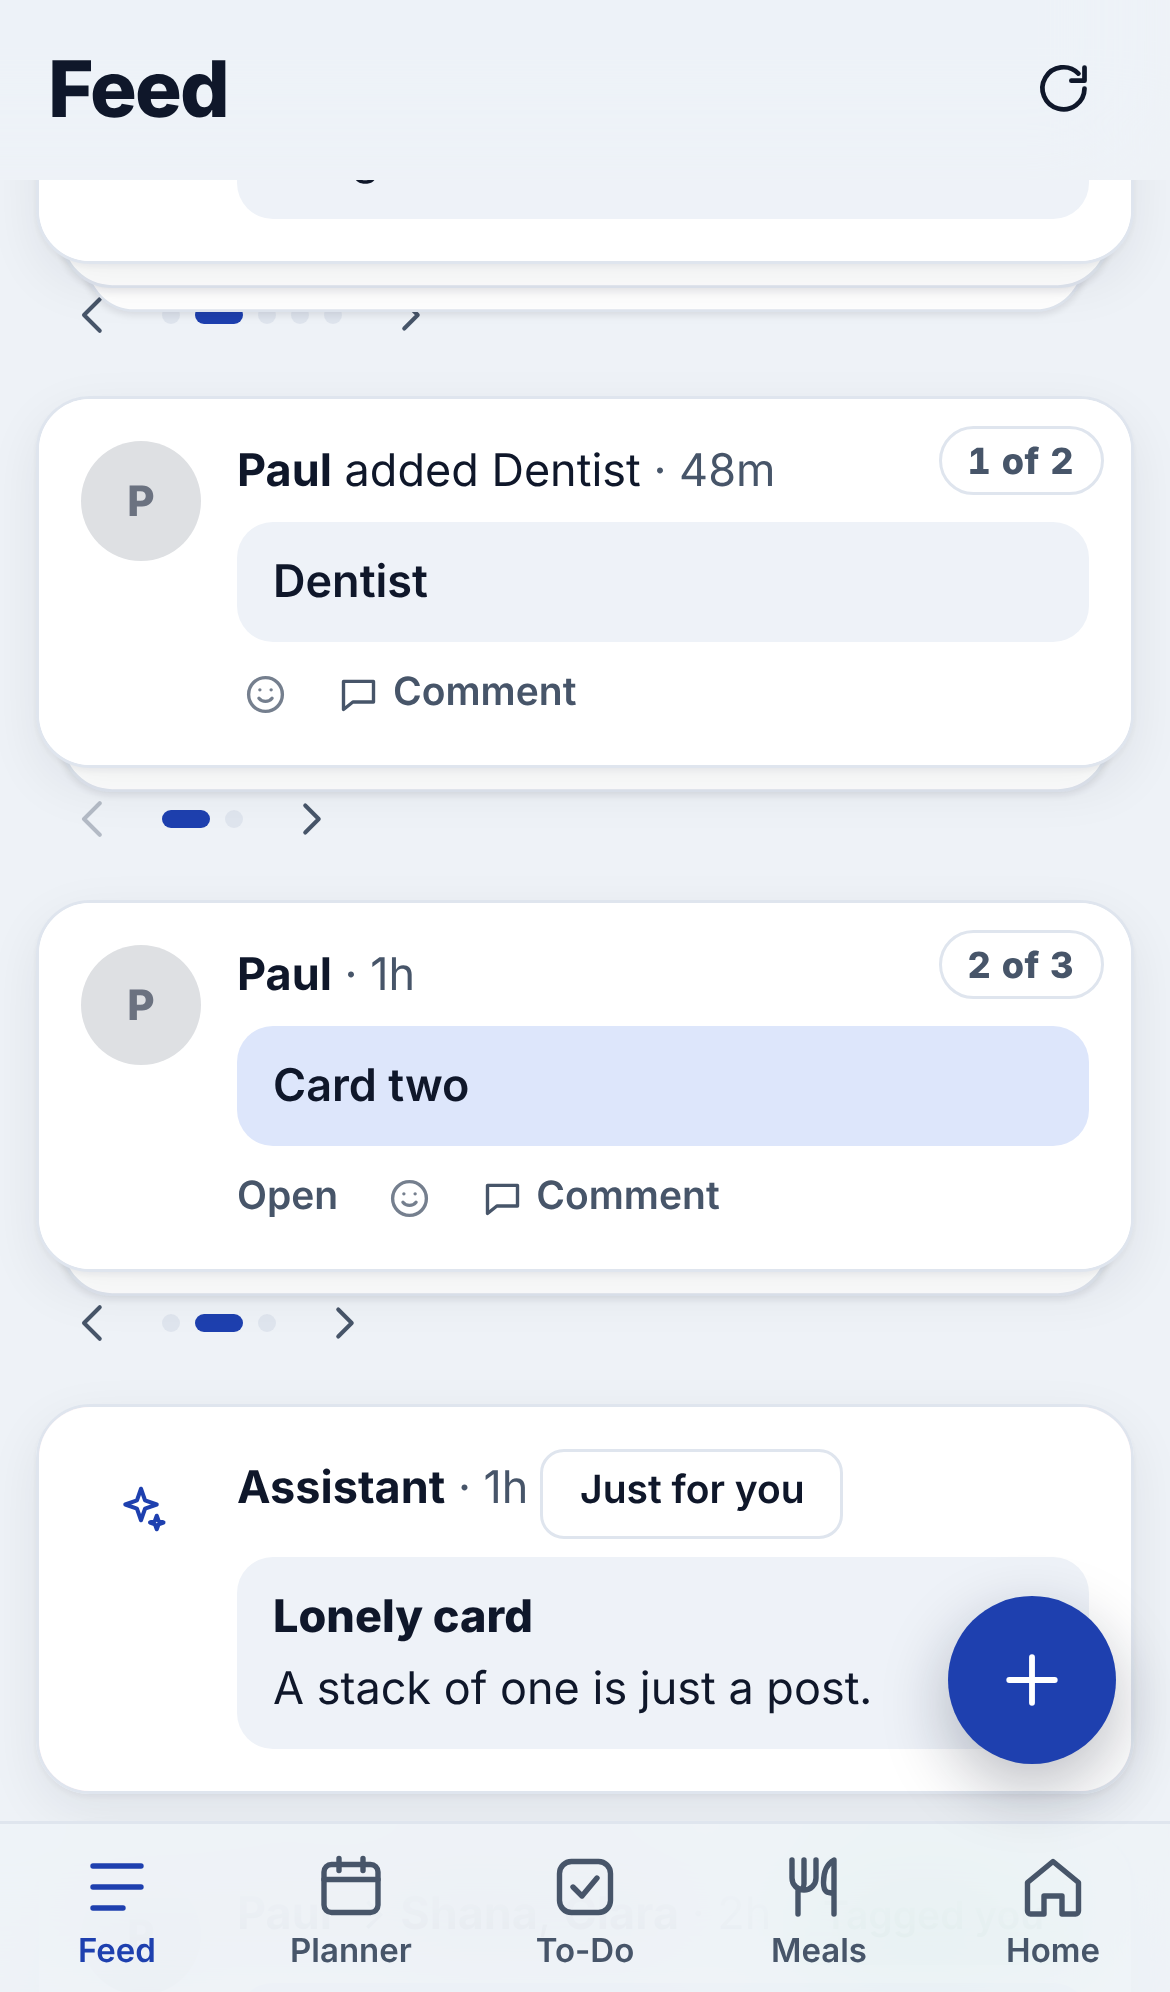
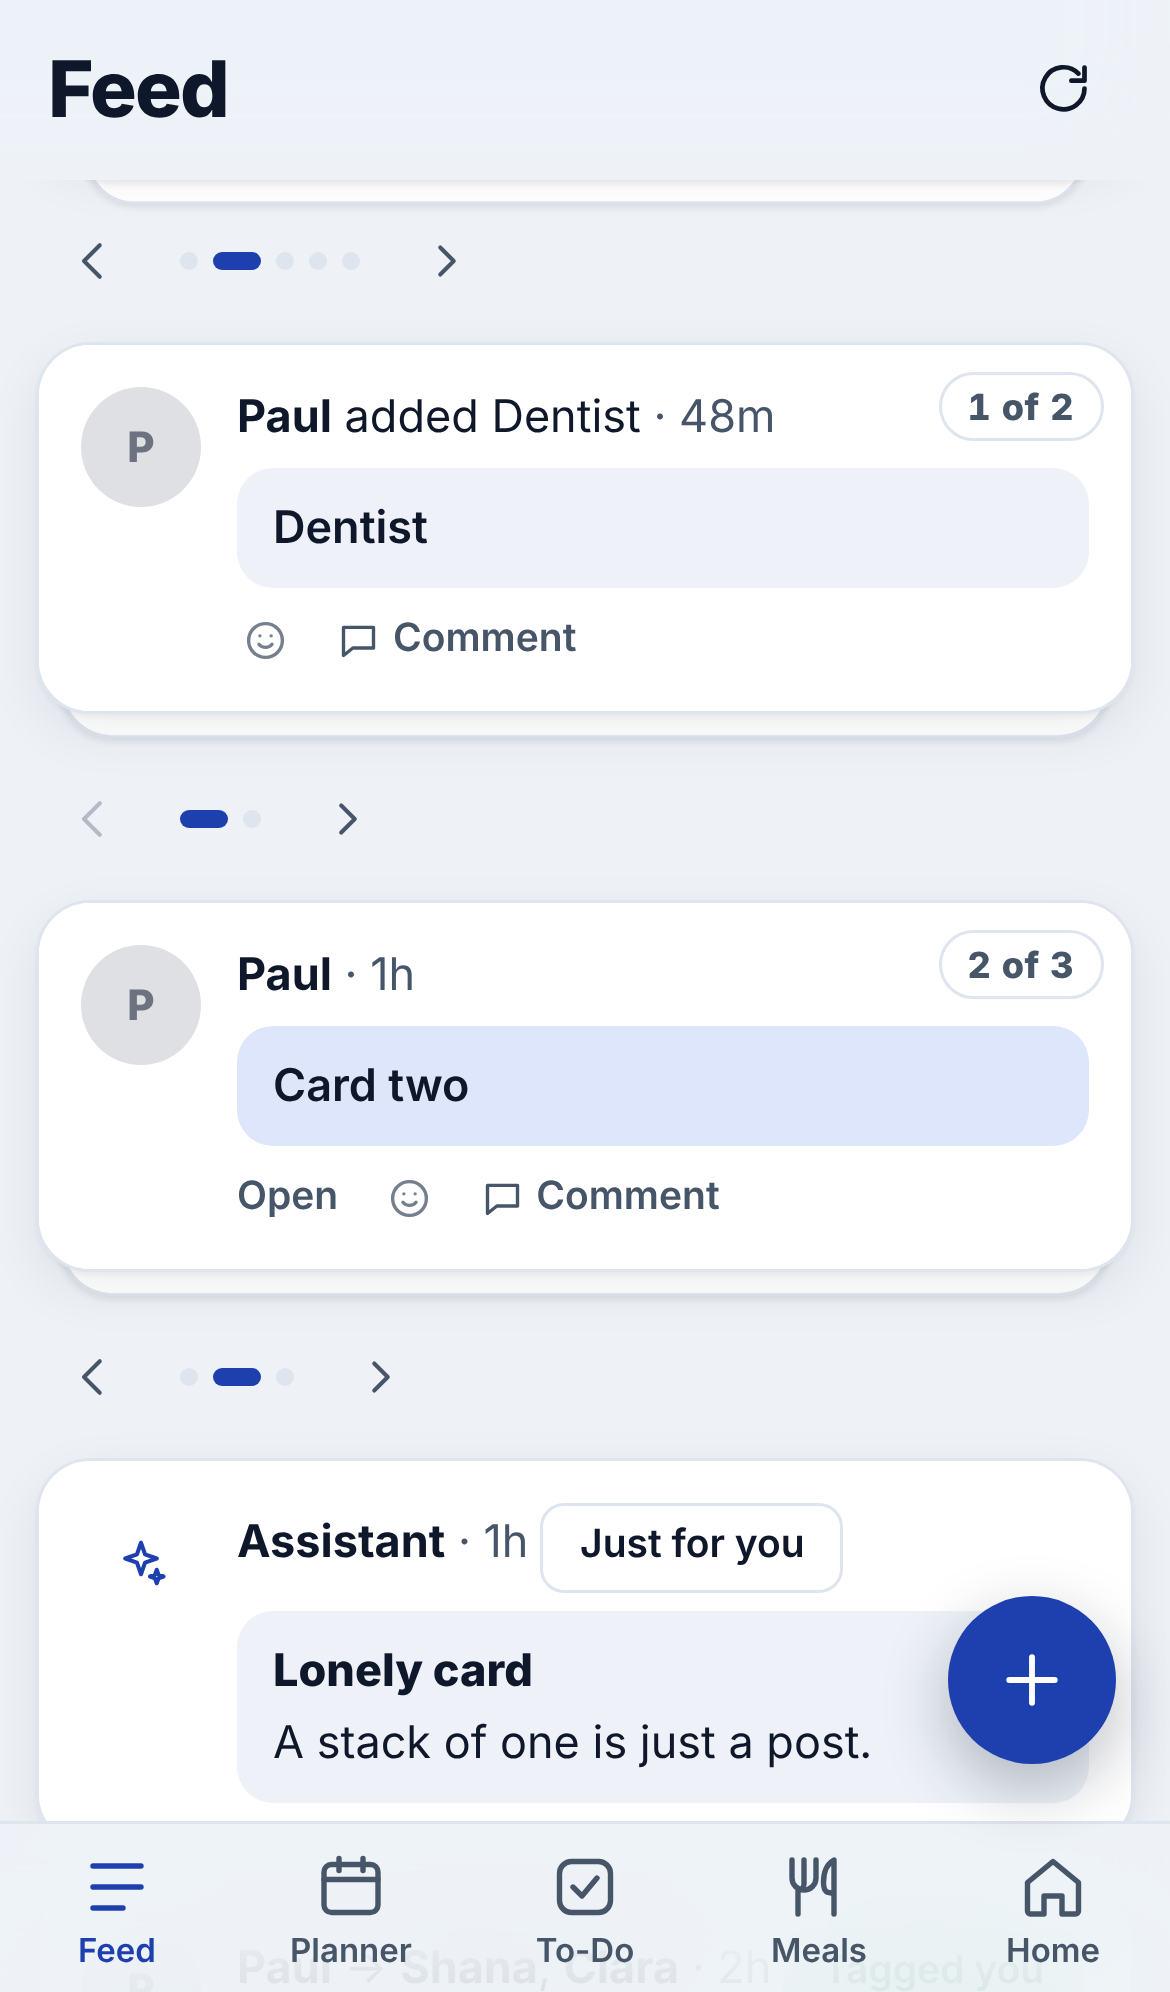
Card stacks: more room under the cards for the dots; hold and slide on the dots to scrub through (app 16.11)
Claude-Session: https://claude.ai/code/session_01Fem5ZzQdK1tyoGNhrgVXtT

diff --git a/index.html b/index.html
@@ -183,13 +183,14 @@
   .sc[data-d="1"] .scin > *, .sc[data-d="2"] .scin > *, .sc[data-d="3"] .scin > * { opacity:0; }   /* only the front card's content shows */
   .stkcount { position:absolute; top:10px; right:10px; z-index:20; padding:3px 9px; border-radius:999px; background:color-mix(in srgb, var(--card) 88%, transparent);
               border:1px solid var(--line); color:var(--muted); font-size:12px; font-weight:800; letter-spacing:.2px; pointer-events:none; font-variant-numeric:tabular-nums; }
-  .stkfoot { display:flex; align-items:center; gap:6px; padding:2px 2px 0; }
+  .stkfoot { display:flex; align-items:center; gap:6px; padding:2px 2px 0; margin-top:18px; }   /* clear of the cards peeking out below */
   .stkfoot button { border:0; background:none; color:var(--muted); font:inherit; font-size:13px; font-weight:700; padding:6px 8px; border-radius:10px; display:flex; align-items:center; }
   .stkfoot button:disabled { opacity:.35; }
   .stkunder { grid-area:1 / 1; z-index:5; display:flex; justify-content:flex-end; align-items:center; padding-right:22px; margin-bottom:0;
                align-self:stretch; border-radius:var(--r-card, 20px); background:var(--redbg); color:var(--red); font-weight:700; font-size:14px; opacity:0; transition:opacity .15s; }
   .stk.stkend .stkunder { opacity:1; }   /* only while the last card is being swiped away */
-  .stkfoot .stkdots { display:flex; gap:5px; align-items:center; }
+  .stkfoot .stkdots { display:flex; gap:5px; align-items:center; padding:12px 6px; margin:-12px 0; touch-action:none; cursor:pointer; }   /* hold and slide to scrub through the cards */
+  .stkfoot .stkdots.many { gap:3px; } .stkfoot .stkdots.many i { width:4px; height:4px; } .stkfoot .stkdots.many i.on { width:10px; }
   .stkfoot .stkdots i { width:6px; height:6px; border-radius:50%; background:var(--line); transition:background .2s, width .2s; }
   .stkfoot .stkdots i.on { width:16px; border-radius:3px; background:var(--accent); }
   .sctitle { font-weight:800; margin-bottom:4px; }
@@ -415,7 +416,7 @@ a.alink { color: inherit; text-decoration: underline; text-decoration-color: col
 // Momnie Family app v6.0
 const DAYS = ['Mon', 'Tue', 'Wed', 'Thu', 'Fri', 'Sat', 'Sun'], DAYN = ['Monday', 'Tuesday', 'Wednesday', 'Thursday', 'Friday', 'Saturday', 'Sunday'], ADULTS = ['Paul', 'Shana'];
 // Shown at the bottom of Home. Bump it together with VERSION in sw.js on every release.
-const APP_VERSION = '16.10 · Nov 19, 2026';
+const APP_VERSION = '16.11 · Nov 19, 2026';
 const TABLES = ['People', 'Schools', 'SchoolCal', 'Activities', 'Overrides', 'Events', 'Caretakers', 'Childcare', 'Birthdays', 'Annuals', 'Todos', 'TodoTypes', 'Recipes', 'DinnerRules', 'Weeks', 'Menus',
   'Groceries', 'GroceryList', 'HouseCards', 'Houses', 'WeatherRules', 'Quotes', 'Memories', 'Updates', 'Messages', 'Activity', 'Comments', 'Reactions', 'Links', 'Settings', 'Photos', 'gifts', 'ai_rules', 'ai_requests', 'notes', 'places', 'daily_items', 'daily_completions'];
 const CAT = { School: '#3f6fb5', Kids: '#4f7cc2', Work: '#64748b', Family: '#5b6fa8', Dinner: '#b08a4f', Caretaker: '#3e9aa6', Shared: '#94a3b8', Birthday: '#c9806a' }, SCHOOL_C = ['#5a72b8', '#7a8597', '#4a6fb0'];
@@ -2279,7 +2280,7 @@ function stackHTML(g) {
     </div>
     <span class="stkcount" aria-live="polite">${i + 1} of ${n}</span>
     <div class="stkfoot"><button data-a="stkPrev" aria-label="Previous card" ${i === 0 ? 'disabled' : ''}>${ic('left', 18)}</button>
-      <span class="stkdots" aria-hidden="true">${n <= 12 ? g.cards.map((c, k) => `<i class="${k === i ? 'on' : ''}"></i>`).join('') : ''}</span>
+      <span class="stkdots${n > 12 ? ' many' : ''}" aria-hidden="true">${g.cards.map((c, k) => `<i class="${k === i ? 'on' : ''}"></i>`).join('')}</span>
       <button data-a="stkNext" aria-label="Next card" ${i === n - 1 ? 'disabled' : ''}>${ic('chev', 18)}</button>
     </div></div>`;
 }
@@ -2294,6 +2295,14 @@ let stkRO = null;
 function stackWatch() {   // refit when images load or the screen changes size
   if (typeof ResizeObserver === 'undefined') return; if (stkRO) stkRO.disconnect();
   stkRO = new ResizeObserver(stackFitAll); document.querySelectorAll('.stk .sc[data-d="0"] .scin').forEach(x => stkRO.observe(x)); }
+// Hold a finger on the dots and slide to move quickly through the cards.
+(() => { let sc = null;
+  const at = (e) => { const r = sc.dots.getBoundingClientRect(), n = sc.st.querySelectorAll('.sc').length, k = Math.floor((e.clientX - r.left) / r.width * n);
+    const i = Math.max(0, Math.min(n - 1, k)); if (i !== +sc.st.dataset.i) stackShow(sc.st, i); };
+  document.addEventListener('pointerdown', e => { const dots = e.target.closest && e.target.closest('.stkdots'); if (!dots) return;
+    sc = { dots, st: dots.closest('.stk'), id: e.pointerId }; try { dots.setPointerCapture(e.pointerId); } catch (x) {} e.preventDefault(); at(e); });
+  document.addEventListener('pointermove', e => { if (sc && e.pointerId === sc.id) at(e); });
+  const end = e => { if (sc && e.pointerId === sc.id) sc = null; }; document.addEventListener('pointerup', end); document.addEventListener('pointercancel', end); })();
 function stackShow(st, i) {
   const cards = [...st.querySelectorAll('.sc')], n = cards.length; i = Math.max(0, Math.min(n - 1, i));
   cards.forEach((c, k) => { c.dataset.d = stackD(k, i); c.style.transition = ''; c.style.transform = ''; c.querySelectorAll('.scin > *').forEach(x => x.style.opacity = '');
@@ -3301,7 +3310,7 @@ A.dinClear = id => { const m = byId('Menus', id); if (!m || (!m.recipeId && !m.n
 // pull down to refresh
 (function () { const el = $('ptr'), ic = $('ptrIcon'), TRIG = 70; let y0 = null, d = 0, on = false;
   const set = (v, anim) => { el.style.transition = anim ? 'transform .25s, opacity .25s' : 'none'; el.style.transform = `translateY(${v - 50}px)`; el.style.opacity = Math.min(v / TRIG, 1); if (!on) ic.textContent = v >= TRIG ? '↻' : '↓'; };
-  document.addEventListener('touchstart', e => { y0 = (on || viewY() > 0 || sheets.length || e.target.closest('.dcard[data-swipe], .rcard, .stkdeck')) ? null : e.touches[0].clientY; d = 0; }, { passive: true });
+  document.addEventListener('touchstart', e => { y0 = (on || viewY() > 0 || sheets.length || e.target.closest('.dcard[data-swipe], .rcard, .stkdeck, .stkdots')) ? null : e.touches[0].clientY; d = 0; }, { passive: true });
   document.addEventListener('touchmove', e => { if (y0 === null) return; if (viewY() > 0) { y0 = null; set(0, true); return; } d = Math.min(110, Math.max(0, e.touches[0].clientY - y0) * 0.5); set(d, false); }, { passive: true });
   document.addEventListener('touchend', async () => { if (y0 === null) return; y0 = null; if (d < TRIG) { set(0, true); return; } on = true; ic.textContent = '↻'; el.classList.add('spin'); set(60, true); try { await load(); } catch (e) { toast(e.message); } el.classList.remove('spin'); on = false; set(0, true); }); })();
 // If the iPhone keyboard nudged the page itself, put it back: only #view should ever scroll.

diff --git a/sw.js b/sw.js
@@ -1,5 +1,5 @@
 // Momnie Family service worker: opens the app instantly from the phone's copy, and receives push notifications.
-const VERSION = 'mf-v16.10';
+const VERSION = 'mf-v16.11';
 const SHELL = ['./', 'index.html', 'manifest.json', 'config.js', 'fonts/caveat-latin.woff2', 'icons/icon-192.png', 'icons/apple-touch-icon.png', 'icons/chs-logo.png', 'icons/panda-cub-logo.png'];
 
 importScripts('config.js');
